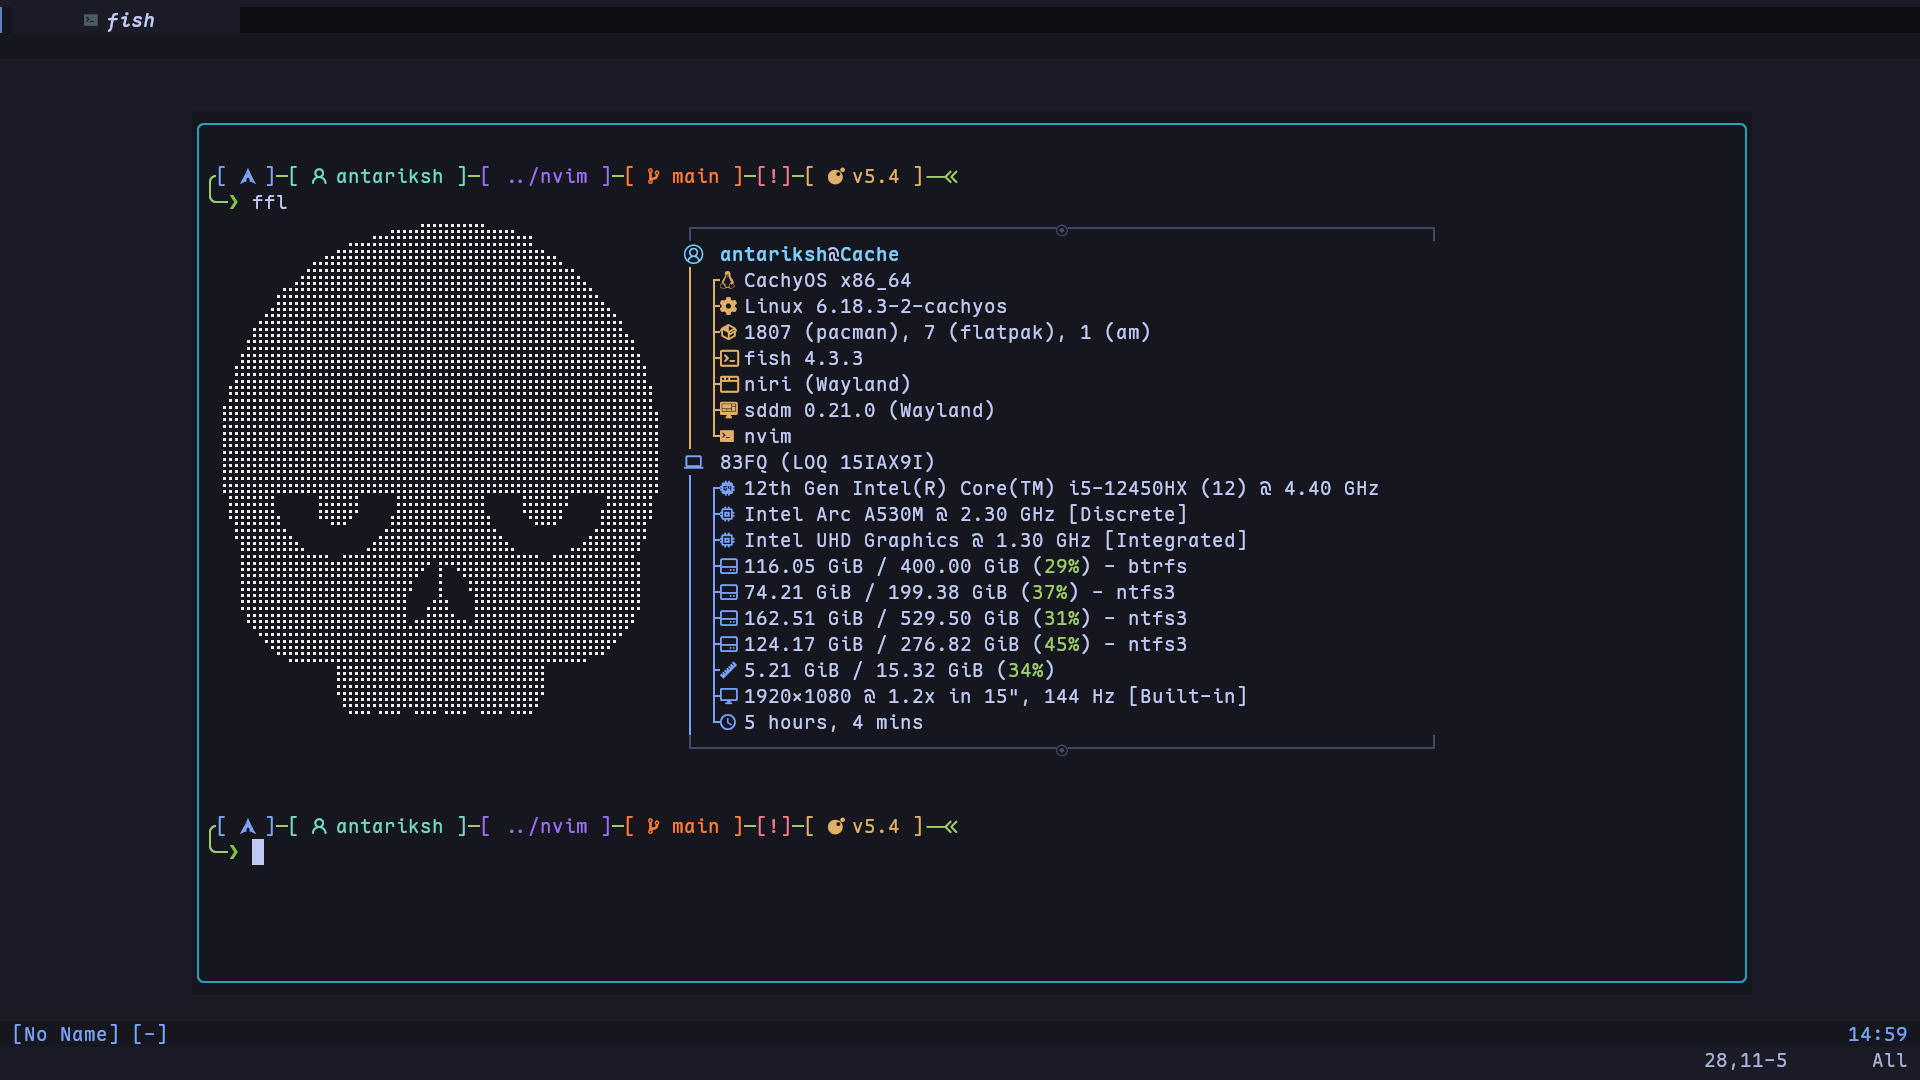
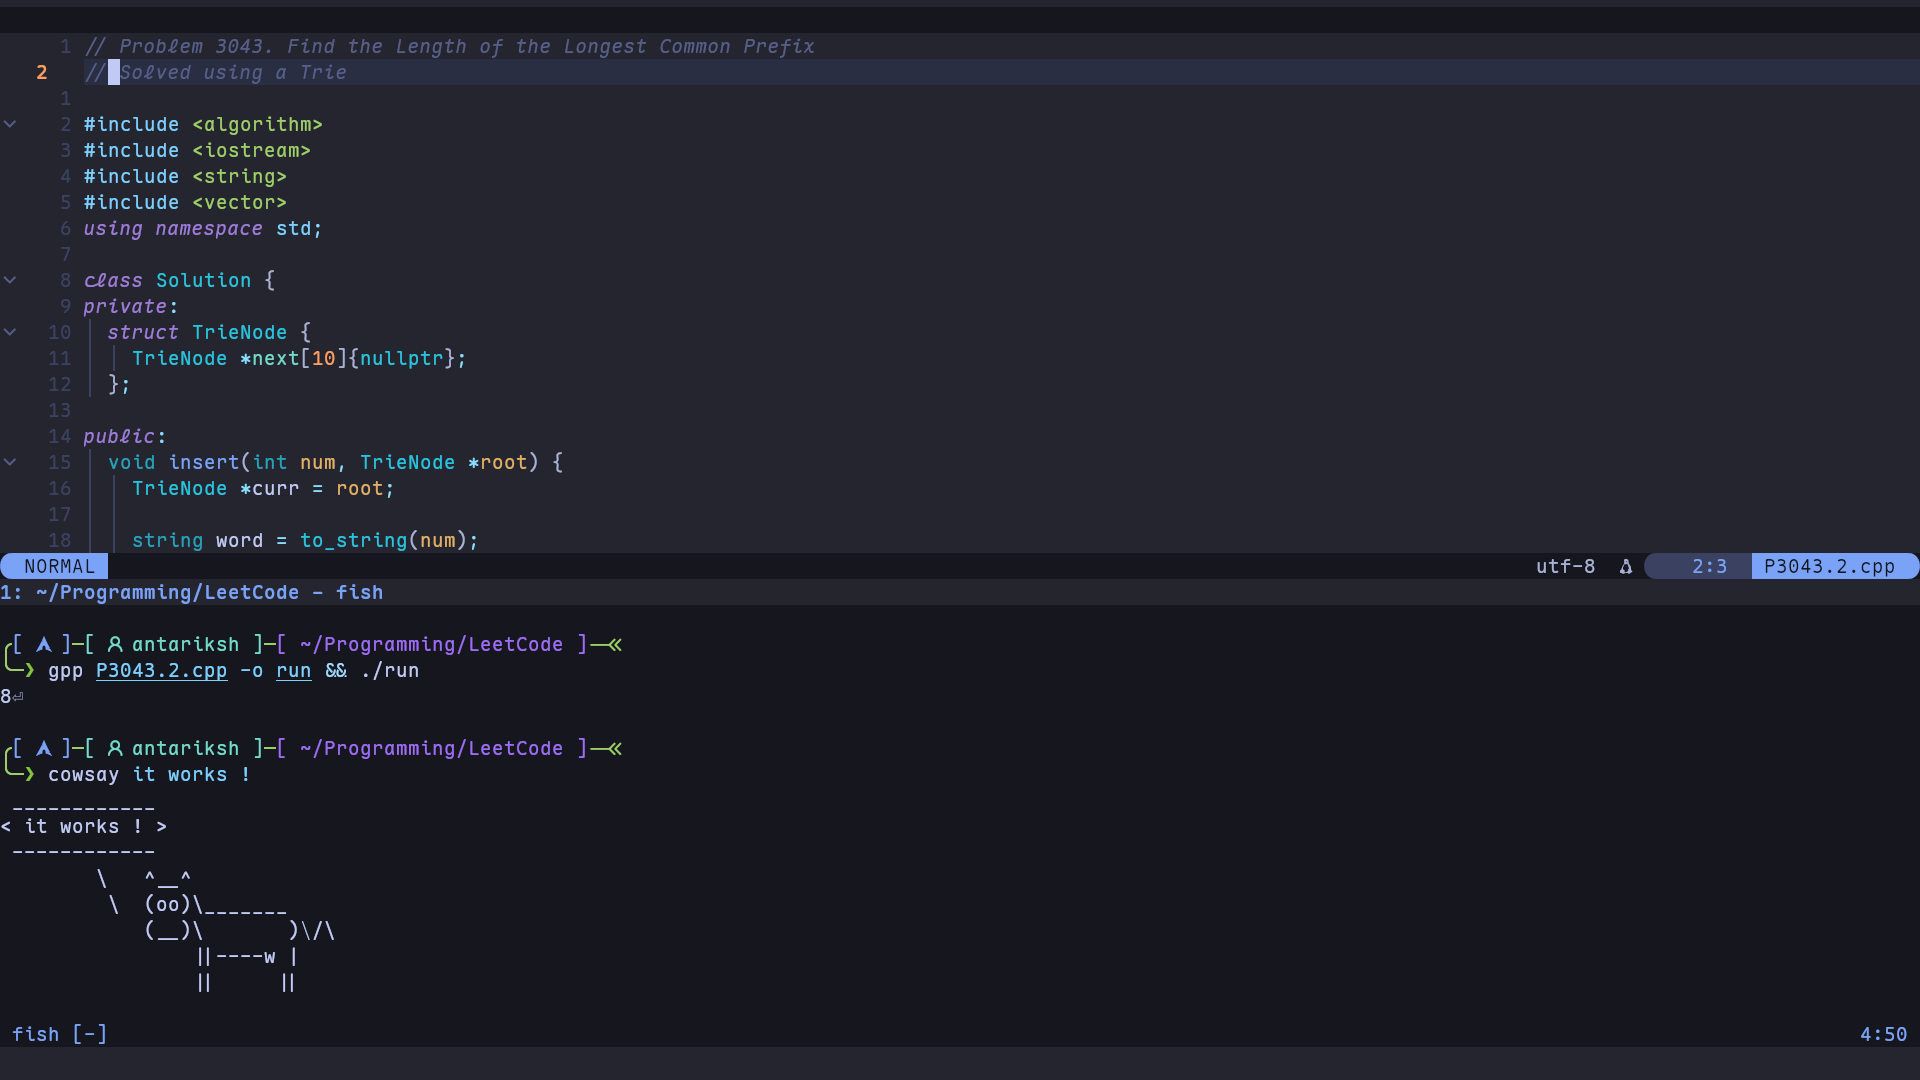
docs: updated docs

diff --git a/README.md b/README.md
@@ -6,7 +6,7 @@ My Neovim configuration built with Lua, and the help of [typecraft's](https://yo
 
 ## In The [Beninging](https://www.youtube.com/watch?v=vacJSHN4ZmY)
 
-**Prerequisites**: I started with Neovim 0.11.x and with [Nerd Fonts](https://www.nerdfonts.com/) too (I personally use [Maple Font NF](https://github.com/subframe7536/maple-font) btw if you care)
+**Prerequisites**: I'm on Neovim 0.12.x and with [Nerd Fonts](https://www.nerdfonts.com/) too (I personally use [Maple Font NF](https://github.com/subframe7536/maple-font) btw, [if you care])
 
 **Installation**:
 
@@ -23,7 +23,7 @@ open neovim and everything should be installed automatically (hopefully)
 ## Configuration Structure
 
 ```tree
-~/.config/nvim/
+.config/nvim
 ├── assets
 │   ├── editor.png
 │   ├── greeter.png
@@ -32,6 +32,7 @@ open neovim and everything should be installed automatically (hopefully)
 ├── init.lua
 ├── lazy-lock.json
 ├── lua
+│   ├── keybinds.lua
 │   ├── plugins
 │   │   ├── editing
 │   │   │   ├── auto-pairs.lua
@@ -41,7 +42,7 @@ open neovim and everything should be installed automatically (hopefully)
 │   │   │   ├── indent-o-matic.lua
 │   │   │   ├── lorem.lua
 │   │   │   ├── mini-modules.lua
-│   │   │   ├── smart-yank.lua
+│   │   │   ├── neogen.lua
 │   │   │   ├── todo.lua
 │   │   │   ├── ultra-fold.lua
 │   │   │   ├── undo-tree.lua
@@ -50,7 +51,9 @@ open neovim and everything should be installed automatically (hopefully)
 │   │   │   ├── blink-cmp.lua
 │   │   │   ├── code-companion.lua
 │   │   │   ├── conform.lua
+│   │   │   ├── lazydev.lua
 │   │   │   ├── lsp-config.lua
+│   │   │   ├── luasnip.lua
 │   │   │   └── treesitter.lua
 │   │   ├── tools
 │   │   │   ├── auto-session.lua
@@ -66,18 +69,16 @@ open neovim and everything should be installed automatically (hopefully)
 │   │   │   ├── which-key.lua
 │   │   │   └── yazi.lua
 │   │   └── ui
-│   │       ├── alpha-greeter.lua
-│   │       ├── bufferline.lua
 │   │       ├── lualine.lua
 │   │       ├── navic-winbar.lua
-│   │       ├── presence.lua
 │   │       ├── render-markdown.lua
 │   │       ├── showkeys.lua
 │   │       ├── smooth-cursor.lua
-│   │       └── themes.lua
+│   │       └── tokyo-night.lua
 │   ├── plugins.lua
 │   ├── preferences.lua
-│   └── terminal.lua
+│   └── snippets
+│       └── cpp.lua
 └── README.md
 ```
 
@@ -87,7 +88,7 @@ open neovim and everything should be installed automatically (hopefully)
 
 ### Startup Screen
 
-![alpha-nvim](./assets/greeter.png)
+![Snacks Dashboard](./assets/greeter.png)
 
 ### Editing Experience
 